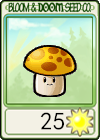
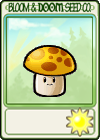
将卡片阳光显示改为自动

Changed region(s): [[0.39, 0.8, 0.66, 0.9429]]

diff --git a/source/component/menubar.py b/source/component/menubar.py
@@ -36,6 +36,12 @@ class Card():
         self.rect.y = y
         # 计划以后以此坐标进行相对变化，用字体绘制阳光消耗大小，不再采用现在的图片包含阳光方法
         # 以便减小程序体积并增加可维护性
+        font = pg.font.Font(c.FONT_PATH, 12)
+        font.bold = True
+        self.sun_cost_img = font.render(str(c.PLANT_CARD_INFO[index][c.SUN_INDEX]), True, c.BLACK)
+        self.sun_cost_img_rect = self.sun_cost_img.get_rect()
+        sun_cost_img_x = 32 - self.sun_cost_img_rect.w
+        self.orig_image.blit(self.sun_cost_img, (sun_cost_img_x, 52, self.sun_cost_img_rect.w, self.sun_cost_img_rect.h))
         
         self.index = index
         self.sun_cost = c.PLANT_CARD_INFO[index][c.SUN_INDEX]
@@ -399,7 +405,7 @@ class MoveBar():
         x = self.card_end_x
         y = 6
         selected_card = random.choices(self.card_pool_name, self.card_pool_weight)[0]
-        self.card_list.append(MoveCard(x, y, selected_card[c.CARD_INDEX] + "_move", selected_card[c.PLANT_NAME_INDEX]))
+        self.card_list.append(MoveCard(x, y, selected_card[c.CARD_INDEX], selected_card[c.PLANT_NAME_INDEX]))
         return True
 
     def update(self, current_time):
